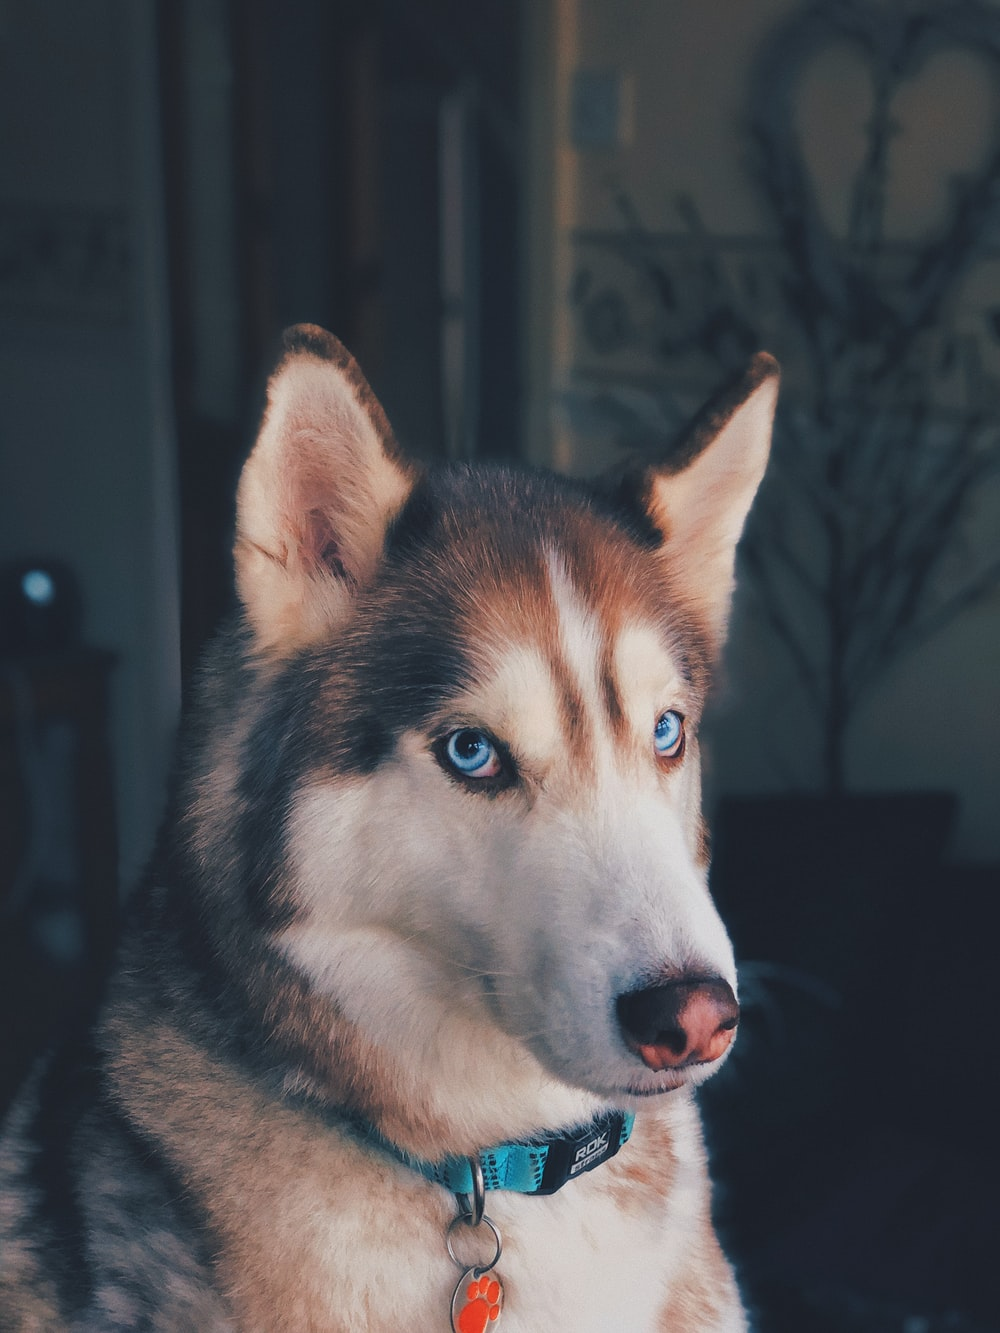
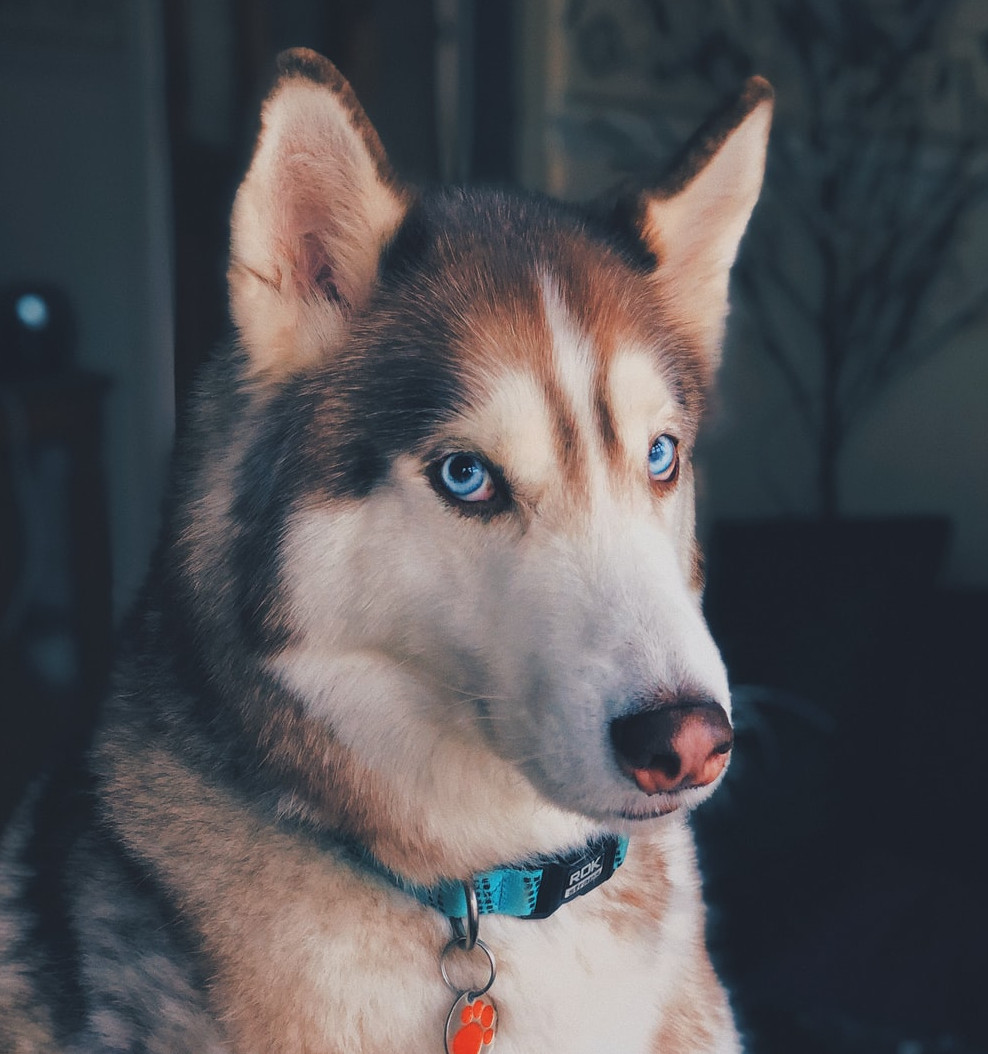
Removed unused image

diff --git a/MGCE/popup.html b/MGCE/popup.html
@@ -9,7 +9,7 @@
     <link rel="stylesheet" href="./styles/popup.css" />
   </head>
   <body>
-    <img id="dog" src="./images/dog1.jpeg" alt="A husky dog" />
+    <img id="dog" src="./images/dog.jpeg" alt="A husky dog" />
     <a id="help">Help</a>
     <h4>Your temporary bookmarks...</h4>
     <input
